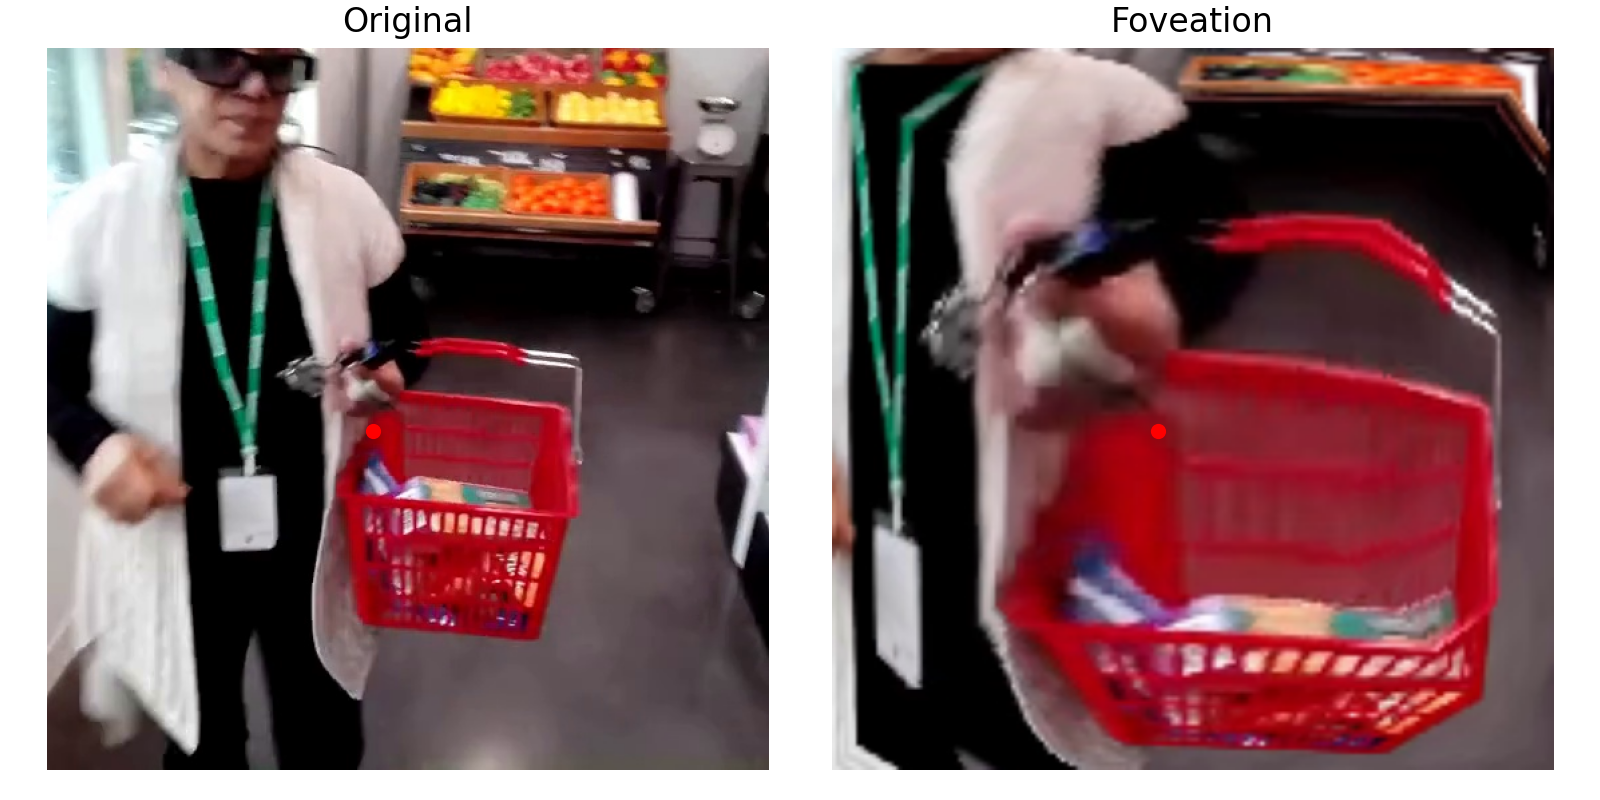
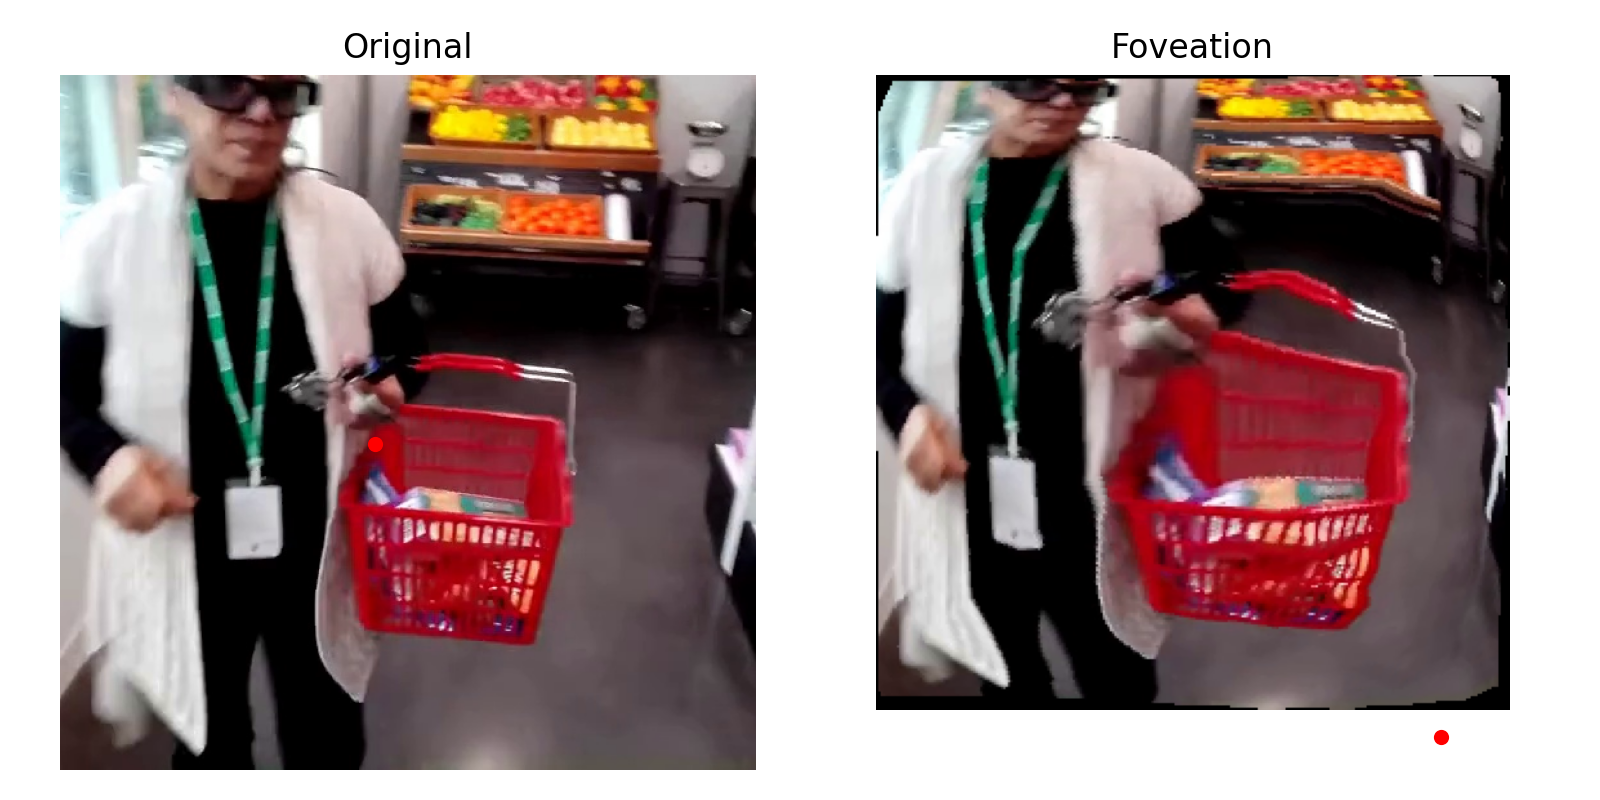
added yaml cfgs for final training runs for baseline & gaze-crop. added other small changes.

diff --git a/solo/data/pretrain_dataloader.py b/solo/data/pretrain_dataloader.py
@@ -230,14 +230,6 @@ def build_transform_pipeline(dataset, cfg):
 
     augmentations = []
 
-    # Add foveation first (change to select type via cfg?)
-    # augmentations.append(
-    #     GazeCenteredCrop(
-    #         crop_size=240,
-    #         gaze=(358, 358),
-    #     )
-    # )
-
     if cfg.rrc.enabled:
         augmentations.append(
             transforms.RandomResizedCrop(
@@ -272,8 +264,8 @@ def build_transform_pipeline(dataset, cfg):
     if cfg.grayscale.prob:
         augmentations.append(transforms.RandomGrayscale(p=cfg.grayscale.prob))
 
-    # if cfg.gaussian_blur.prob:
-    #    augmentations.append(transforms.RandomApply([GaussianBlur()], p=cfg.gaussian_blur.prob))
+    if cfg.gaussian_blur.prob:
+       augmentations.append(transforms.RandomApply([GaussianBlur()], p=cfg.gaussian_blur.prob))
 
     if cfg.solarization.prob:
         augmentations.append(transforms.RandomApply([Solarization()], p=cfg.solarization.prob))

diff --git a/foveation/viz.py b/foveation/viz.py
@@ -34,9 +34,7 @@ def main():
     saliency = saliency.astype(np.float32)
     
     # methods: crop, blur, fcg
-    # viz_fov(annot, frame, saliency, "fcg")
-    
-    make_grid_image(256, 3)
+    viz_fov(annot, frame, saliency, "fcg")
     
     # viz_blur_heatmaps(annot, frame, saliency)
     # viz_saliency(annot, frame, saliency)
@@ -57,10 +55,12 @@ def viz_fov(annot, frame, saliency, method):
     
     if method == "crop":
         out = GazeCenteredCrop()(frame, annot, S)
+        out.resize((540, 540), resample=Image.BILINEAR)
     elif method == "blur":  # wip
         out = RadialBlurFoveation()(frame, annot, S)
     elif method == "fcg":  # wip
         out = FovealCartesianGeometry()(frame, annot, S)
+        out.resize((540, 540), resample=Image.BILINEAR)
     else:
         out = frame
     

diff --git a/foveation/methods/gaze_crop.py b/foveation/methods/gaze_crop.py
@@ -6,7 +6,7 @@ from foveation.methods.base import Foveation
 
 
 class GazeCenteredCrop(Foveation):
-    def __init__(self, crop_size: int = 336):
+    def __init__(self, crop_size=336):
         self.N = crop_size
 
     def __call__(self, img: Image.Image, annot: pd.Series, saliency: np.ndarray) -> Image.Image:
@@ -16,6 +16,4 @@ class GazeCenteredCrop(Foveation):
         x_cor = x_g - max(0, x_g + self.N//2 - w) - min(0, x_g - self.N//2)
         y_cor = y_g - max(0, y_g + self.N//2 - h) - min(0, y_g - self.N//2)
         
-        crop = img.crop((x_cor - self.N//2, y_cor - self.N//2, x_cor + self.N//2, y_cor + self.N//2))
-        
-        return crop.resize((540, 540), resample=Image.BILINEAR)
+        return img.crop((x_cor - self.N//2, y_cor - self.N//2, x_cor + self.N//2, y_cor + self.N//2))

diff --git a/foveation/foveation_factory.py b/foveation/foveation_factory.py
@@ -17,10 +17,10 @@ def build_foveation(fov_type):
     elif fov_type == "none":
         return None
     elif fov_type == "crop":
-        return GazeCenteredCrop()
+        return GazeCenteredCrop(crop_size=336)
     elif fov_type == "blur":
-        return RadialBlurFoveation()
+        return RadialBlurFoveation(radii=[32, 64, 128, 256], sigmas=[0.0, 0.5, 1.5, 3.0, 6.0], saliency_alpha=1.0, transition_width=32)
     elif fov_type == "fcg":
-        return FovealCartesianGeometry()
+        return FovealCartesianGeometry(p0=64, alpha=0.5, beta=1.0)
     else:
         raise ValueError(f"Unknown foveation type: {fov_type}") 

diff --git a/solo/args/dataset.py b/solo/args/dataset.py
@@ -72,7 +72,7 @@ def augmentations_args(parser: ArgumentParser):
     # other augmentation probabilities
     parser.add_argument("--gray_scale_prob", type=float, default=[0.2], nargs="+")
     parser.add_argument("--horizontal_flip_prob", type=float, default=[0.5], nargs="+")
-    # parser.add_argument("--gaussian_prob", type=float, default=[0.5], nargs="+")
+    parser.add_argument("--gaussian_prob", type=float, default=[0.5], nargs="+")
     parser.add_argument("--solarization_prob", type=float, default=[0.0], nargs="+")
     parser.add_argument("--equalization_prob", type=float, default=[0.0], nargs="+")
 

diff --git a/foveation/methods/fcg.py b/foveation/methods/fcg.py
@@ -6,7 +6,7 @@ from foveation.methods.base import Foveation
         
         
 class FovealCartesianGeometry(Foveation):
-    def __init__(self, p0=32, alpha=0.5, beta=1.0):
+    def __init__(self, p0=64, alpha=0.5, beta=1.0):
         self.p0 = p0
         self.alpha = alpha
         self.beta = beta
@@ -66,4 +66,4 @@ class FovealCartesianGeometry(Foveation):
 
         out = Image.fromarray(out)
         
-        return out.resize((540, 540), resample=Image.BILINEAR)
+        return out

diff --git a/main_linear.py b/main_linear.py
@@ -189,7 +189,7 @@ def main(cfg: DictConfig):
             resume="allow" if wandb_run_id else None,
             id=wandb_run_id,
         )
-        wandb_logger.watch(model, log="gradients", log_freq=500)
+        wandb_logger.watch(model, log="gradients", log_freq=200)
         wandb_logger.log_hyperparams(OmegaConf.to_container(cfg))
 
         # lr logging

diff --git a/main_pretrain.py b/main_pretrain.py
@@ -212,7 +212,7 @@ def main(cfg: DictConfig):
             resume="allow" if wandb_run_id else None,
             id=wandb_run_id,
         )
-        wandb_logger.watch(model, log="gradients", log_freq=500)
+        wandb_logger.watch(model, log="gradients", log_freq=200)
         wandb_logger.log_hyperparams(OmegaConf.to_container(cfg))
 
         # lr logging
